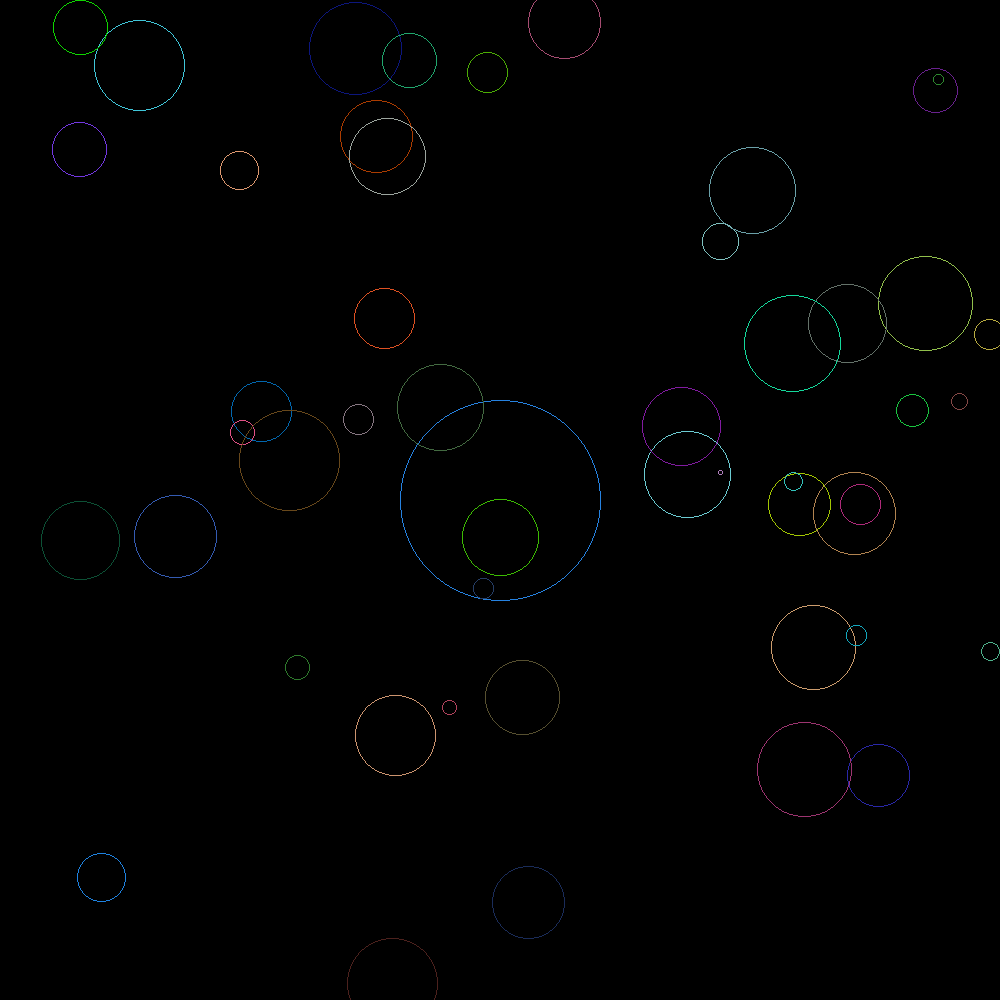
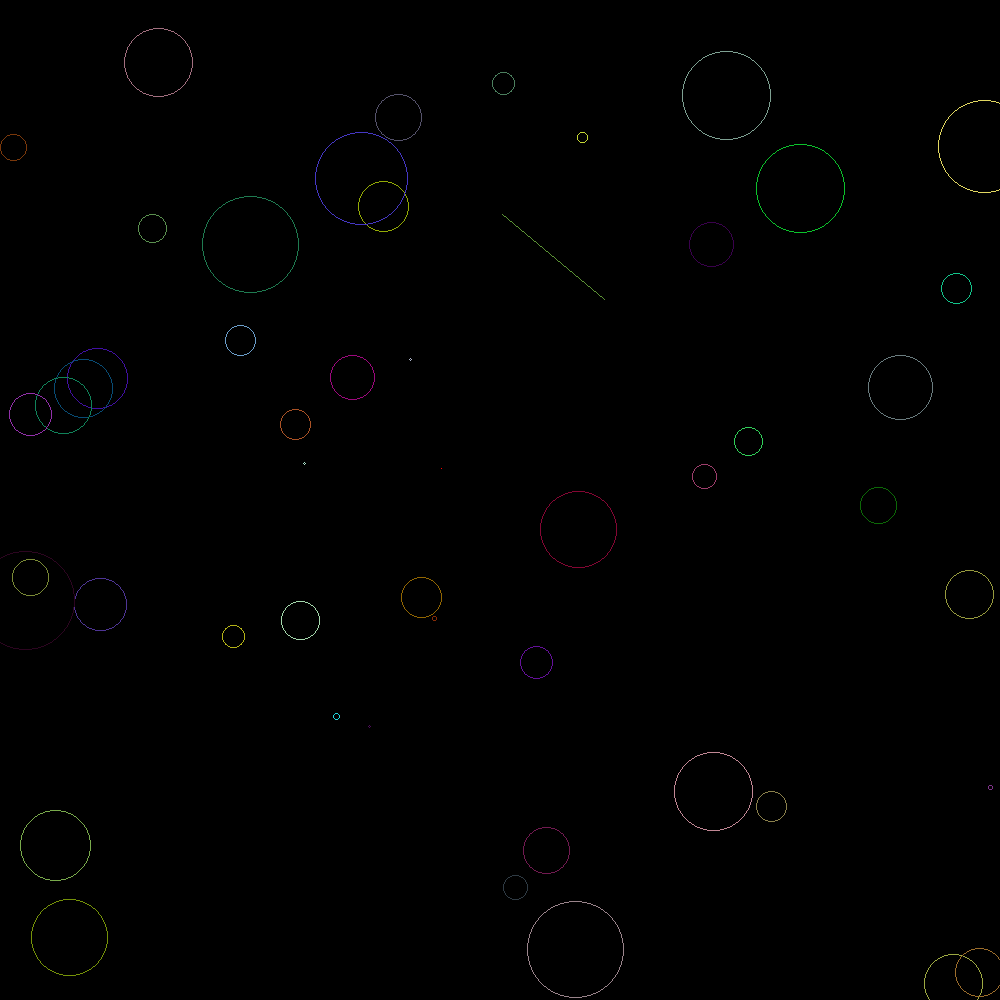
circle + line

diff --git a/src/main.rs b/src/main.rs
@@ -21,9 +21,9 @@ fn main() {
     // );
     // triangle.draw(&mut image);
 
-    // for _ in 1..50 {
-    //     gs::Circle::random(image.width, image.height).draw(&mut image);
-    // }
+    for _ in 1..50 {
+        gs::Circle::random(image.width, image.height).draw(&mut image);
+    }
 
     raster::save(&image, "image.png").unwrap();
 }
